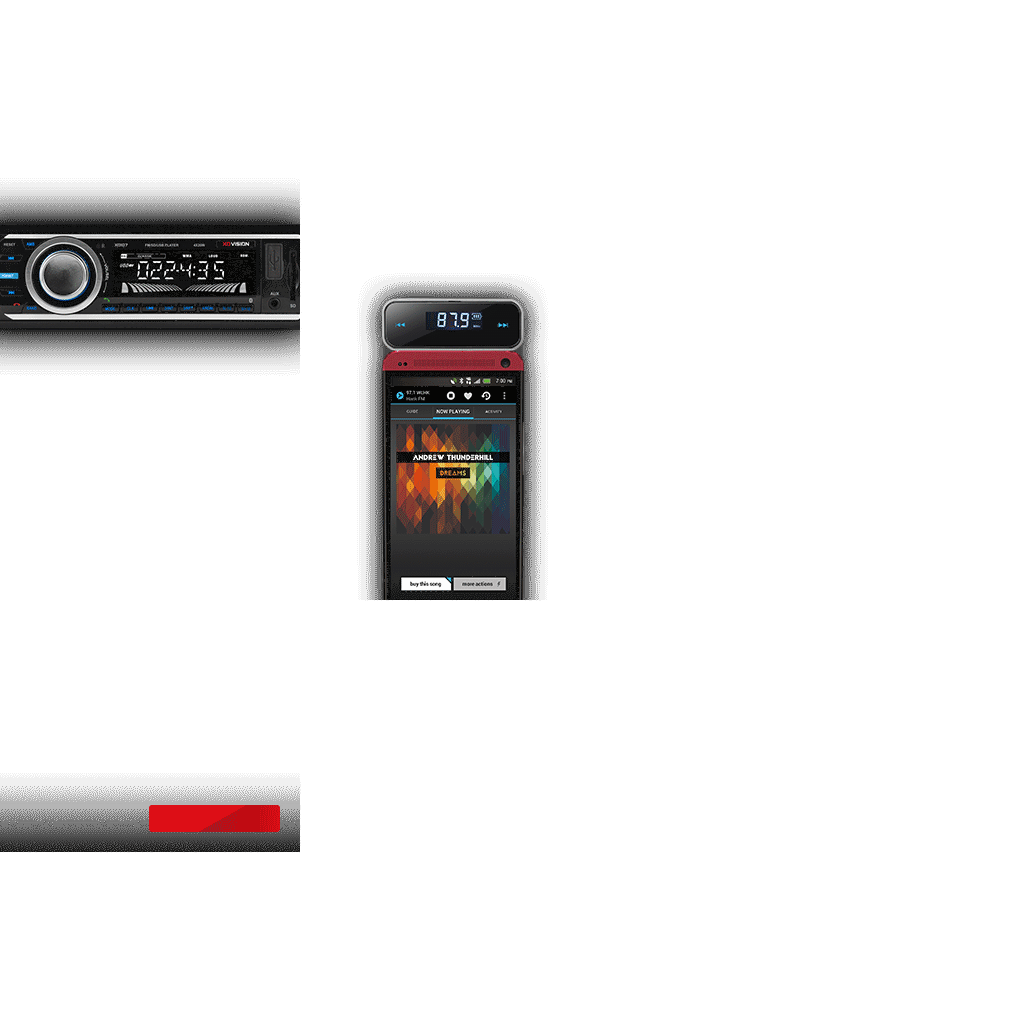
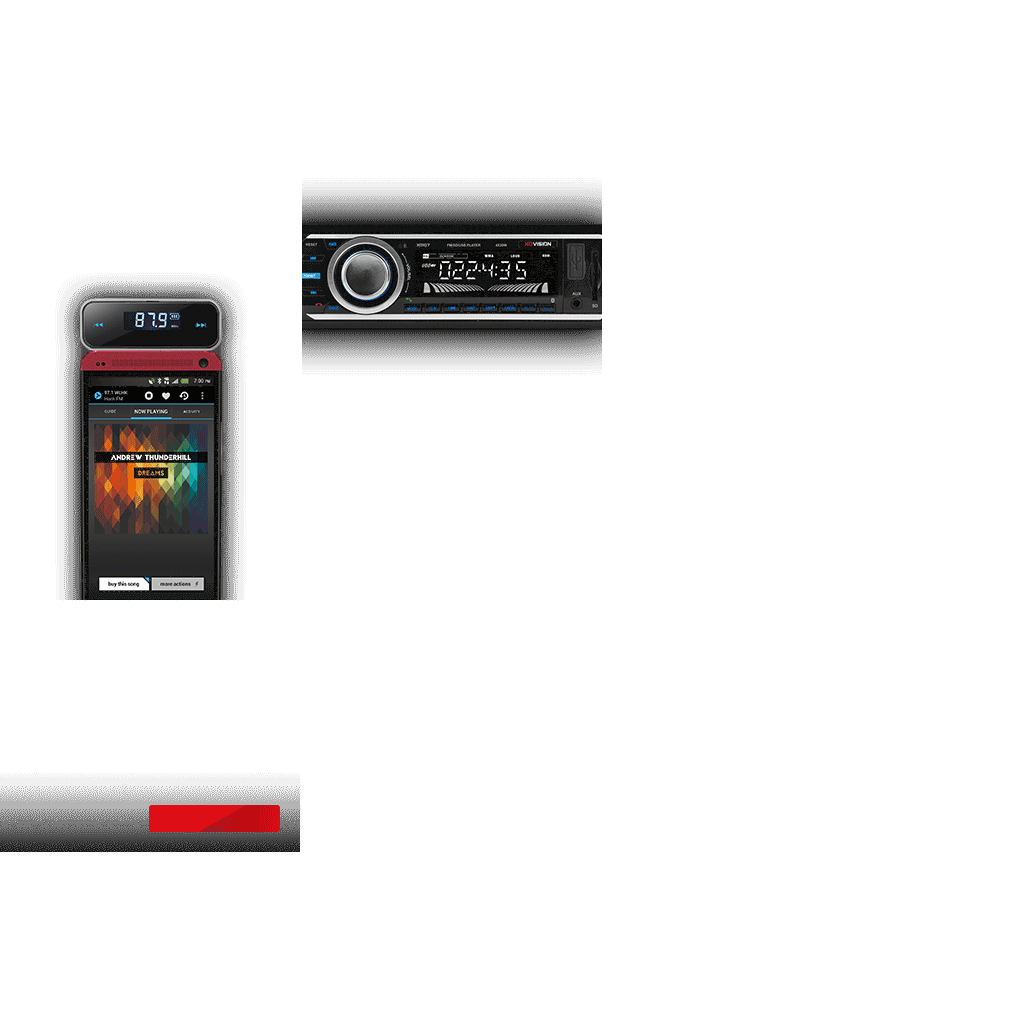
Add files via upload

Changed region(s): [[0.0, 0.1562, 0.5938, 0.5938]]

diff --git a/XOvision/CT1222_XOvision_160x600.js b/XOvision/CT1222_XOvision_160x600.js
@@ -20,7 +20,7 @@ lib.properties = {
 
 
 lib.ssMetadata = [
-		{name:"CT1222_XOvision_160x600_atlas_P_", frames: [[0,602,300,250],[0,0,300,600],[302,0,300,600]]}
+		{name:"CT1222_XOvision_160x600_atlas_P_", frames: [[0,602,300,250],[302,0,300,600],[0,0,300,600]]}
 ];
 
 
@@ -663,9 +663,14 @@ p.nominalBounds = null;
 
 	// timeline functions:
 	this.frame_0 = function() {
-		this.clickthru_btn.on("click", function(evt){
+		if(!this.alreadyyExecuted){
+		this.alreadyyExecuted=true;
+			this.clickthru_btn.on("click", function(evt){
 		  window.open(clickTag, "_blank");
 		});
+		} else {
+		gotoAndPlay(2);
+		}
 	}
 	this.frame_180 = function() {
 		if(!this.alreadyExecuted){

diff --git a/XOvision/CT1222_XOvision_300x250.js b/XOvision/CT1222_XOvision_300x250.js
@@ -666,9 +666,14 @@ p.nominalBounds = null;
 
 	// timeline functions:
 	this.frame_0 = function() {
-		this.clickthru_btn.on("click", function(evt){
+		if(!this.alreadyyExecuted){
+		this.alreadyyExecuted=true;
+			this.clickthru_btn.on("click", function(evt){
 		  window.open(clickTag, "_blank");
 		});
+		} else {
+		gotoAndPlay(2);
+		}
 	}
 	this.frame_180 = function() {
 		if(!this.alreadyExecuted){

diff --git a/XOvision/CT1222_XOvision_300x600.js b/XOvision/CT1222_XOvision_300x600.js
@@ -663,9 +663,14 @@ p.nominalBounds = null;
 
 	// timeline functions:
 	this.frame_0 = function() {
-		this.clickthru_btn.on("click", function(evt){
+		if(!this.alreadyyExecuted){
+		this.alreadyyExecuted=true;
+			this.clickthru_btn.on("click", function(evt){
 		  window.open(clickTag, "_blank");
 		});
+		} else {
+		gotoAndPlay(2);
+		}
 	}
 	this.frame_180 = function() {
 		if(!this.alreadyExecuted){

diff --git a/XOvision/CT1222_XOvision_728x90.js b/XOvision/CT1222_XOvision_728x90.js
@@ -614,9 +614,14 @@ p.nominalBounds = null;
 
 	// timeline functions:
 	this.frame_0 = function() {
-		this.clickthru_btn.on("click", function(evt){
+		if(!this.alreadyyExecuted){
+		this.alreadyyExecuted=true;
+			this.clickthru_btn.on("click", function(evt){
 		  window.open(clickTag, "_blank");
 		});
+		} else {
+		gotoAndPlay(2);
+		}
 	}
 	this.frame_180 = function() {
 		if(!this.alreadyExecuted){
